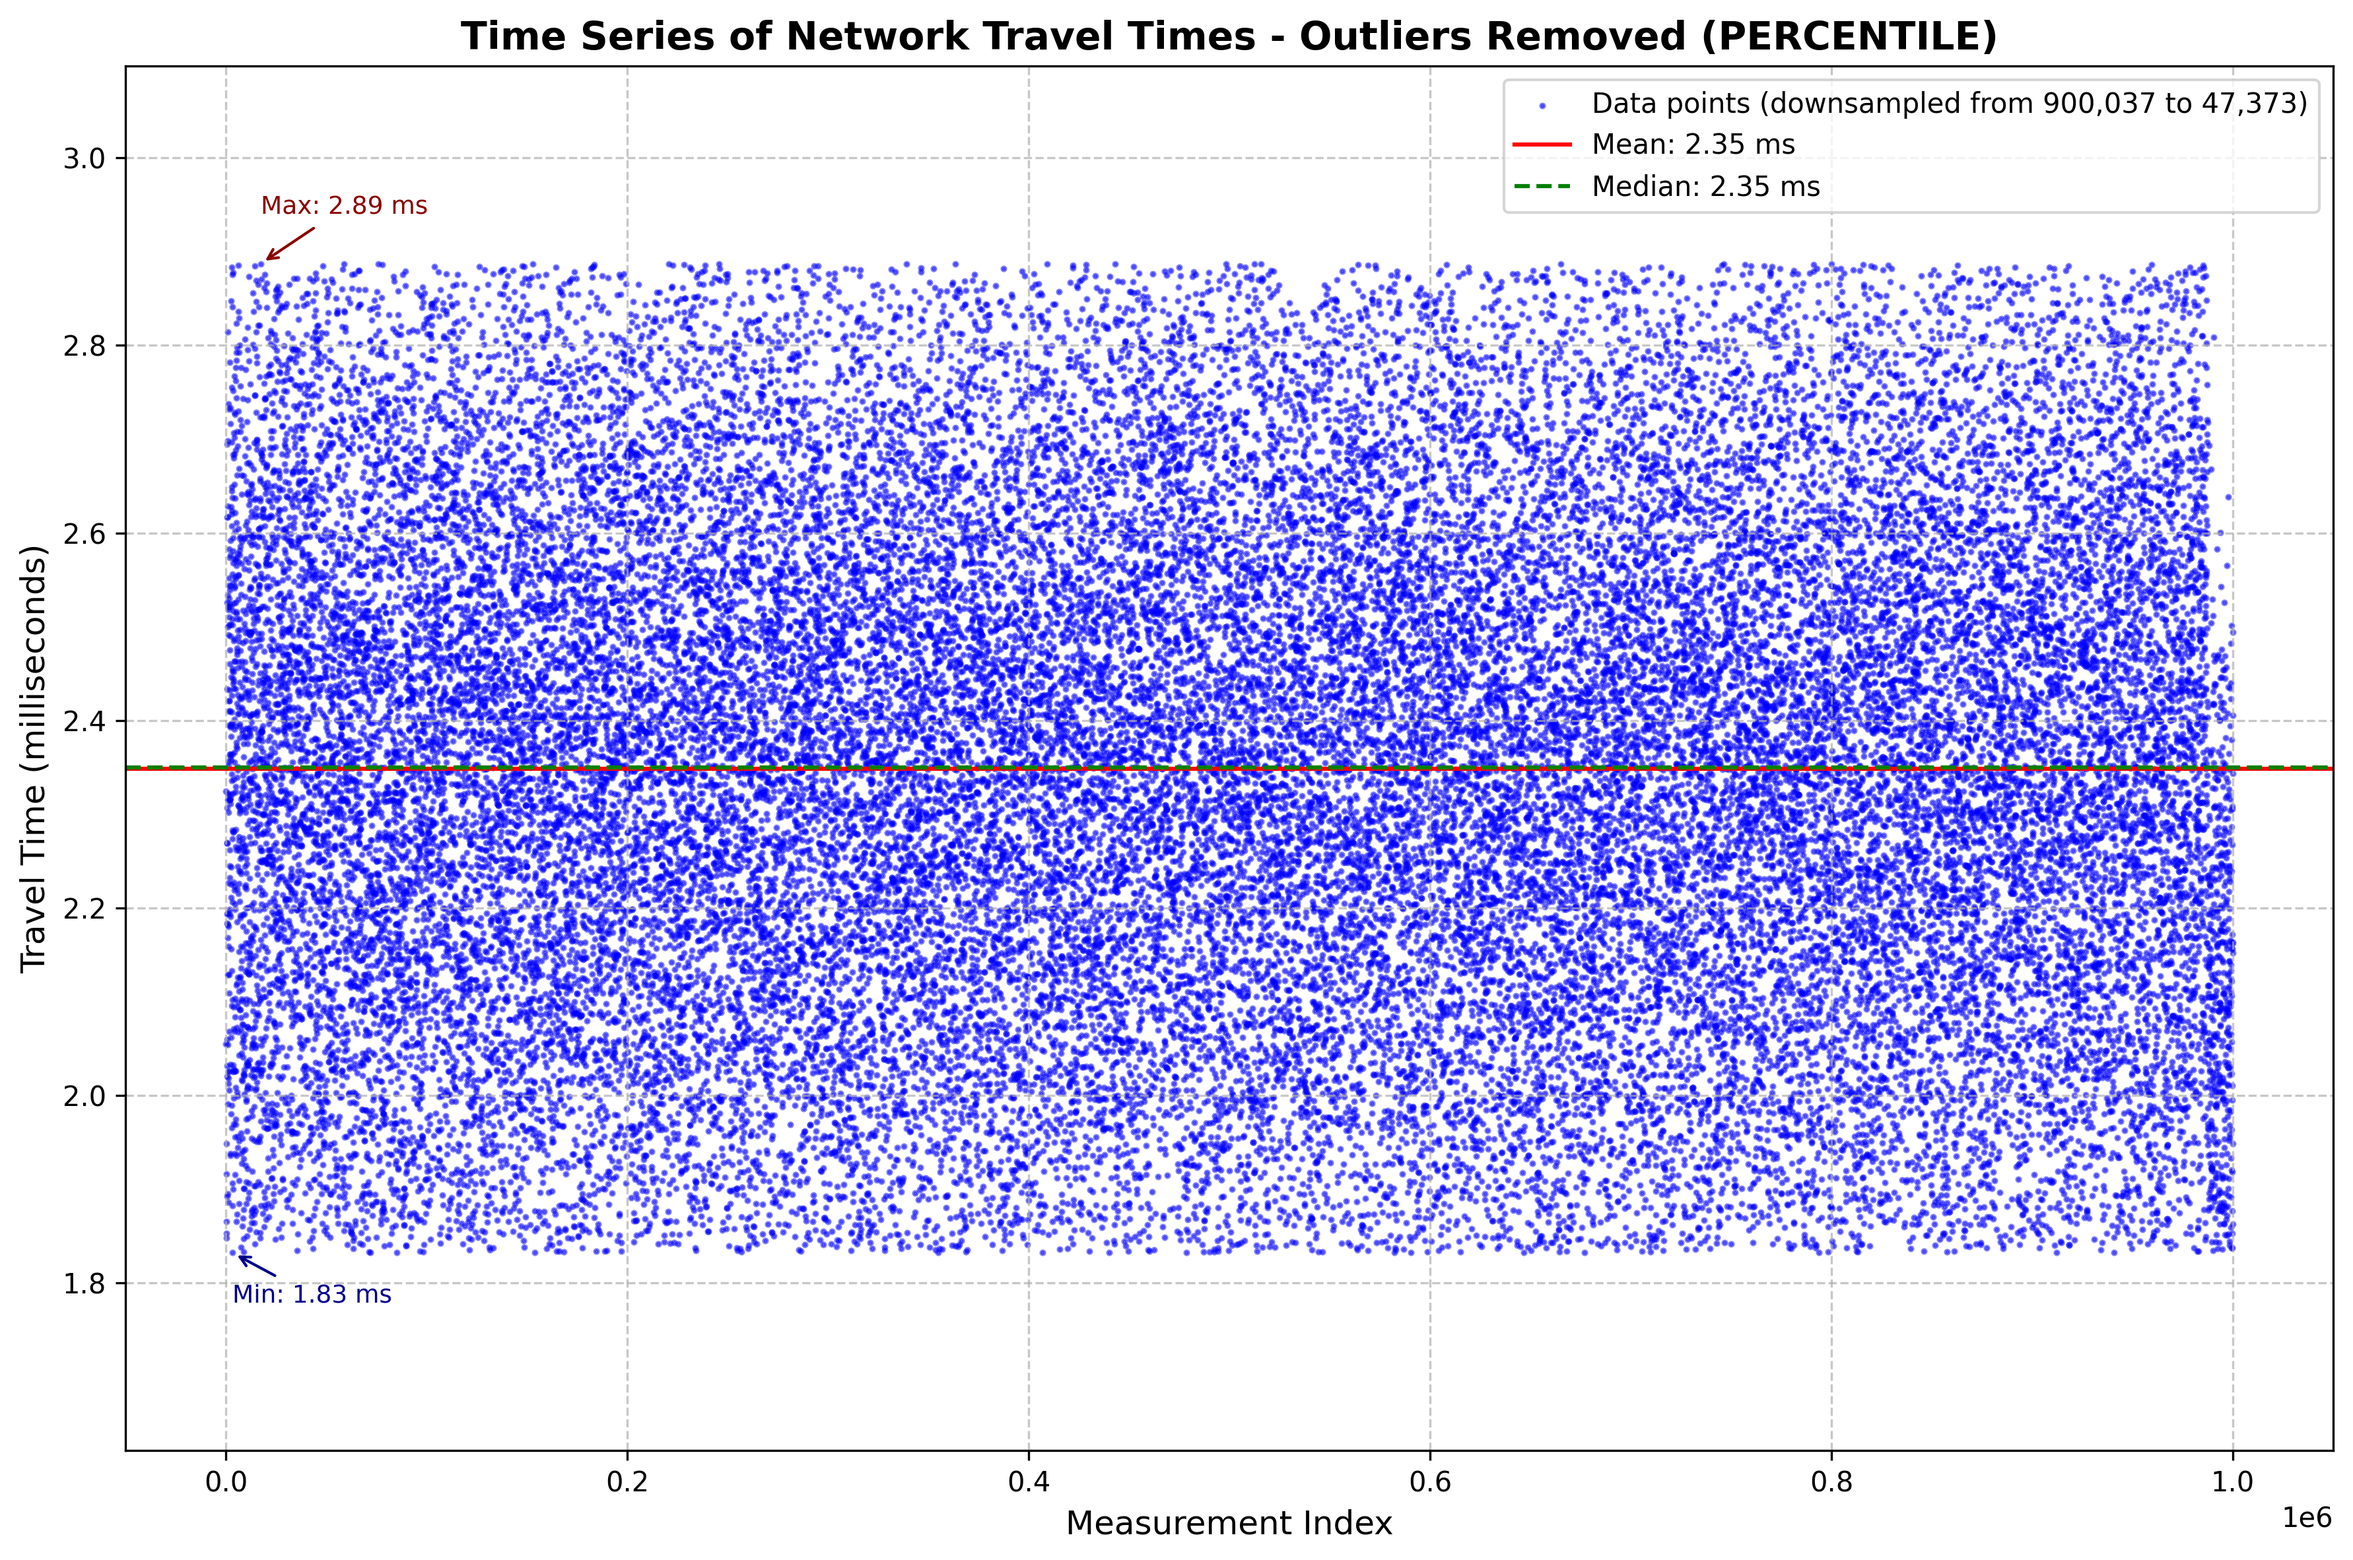
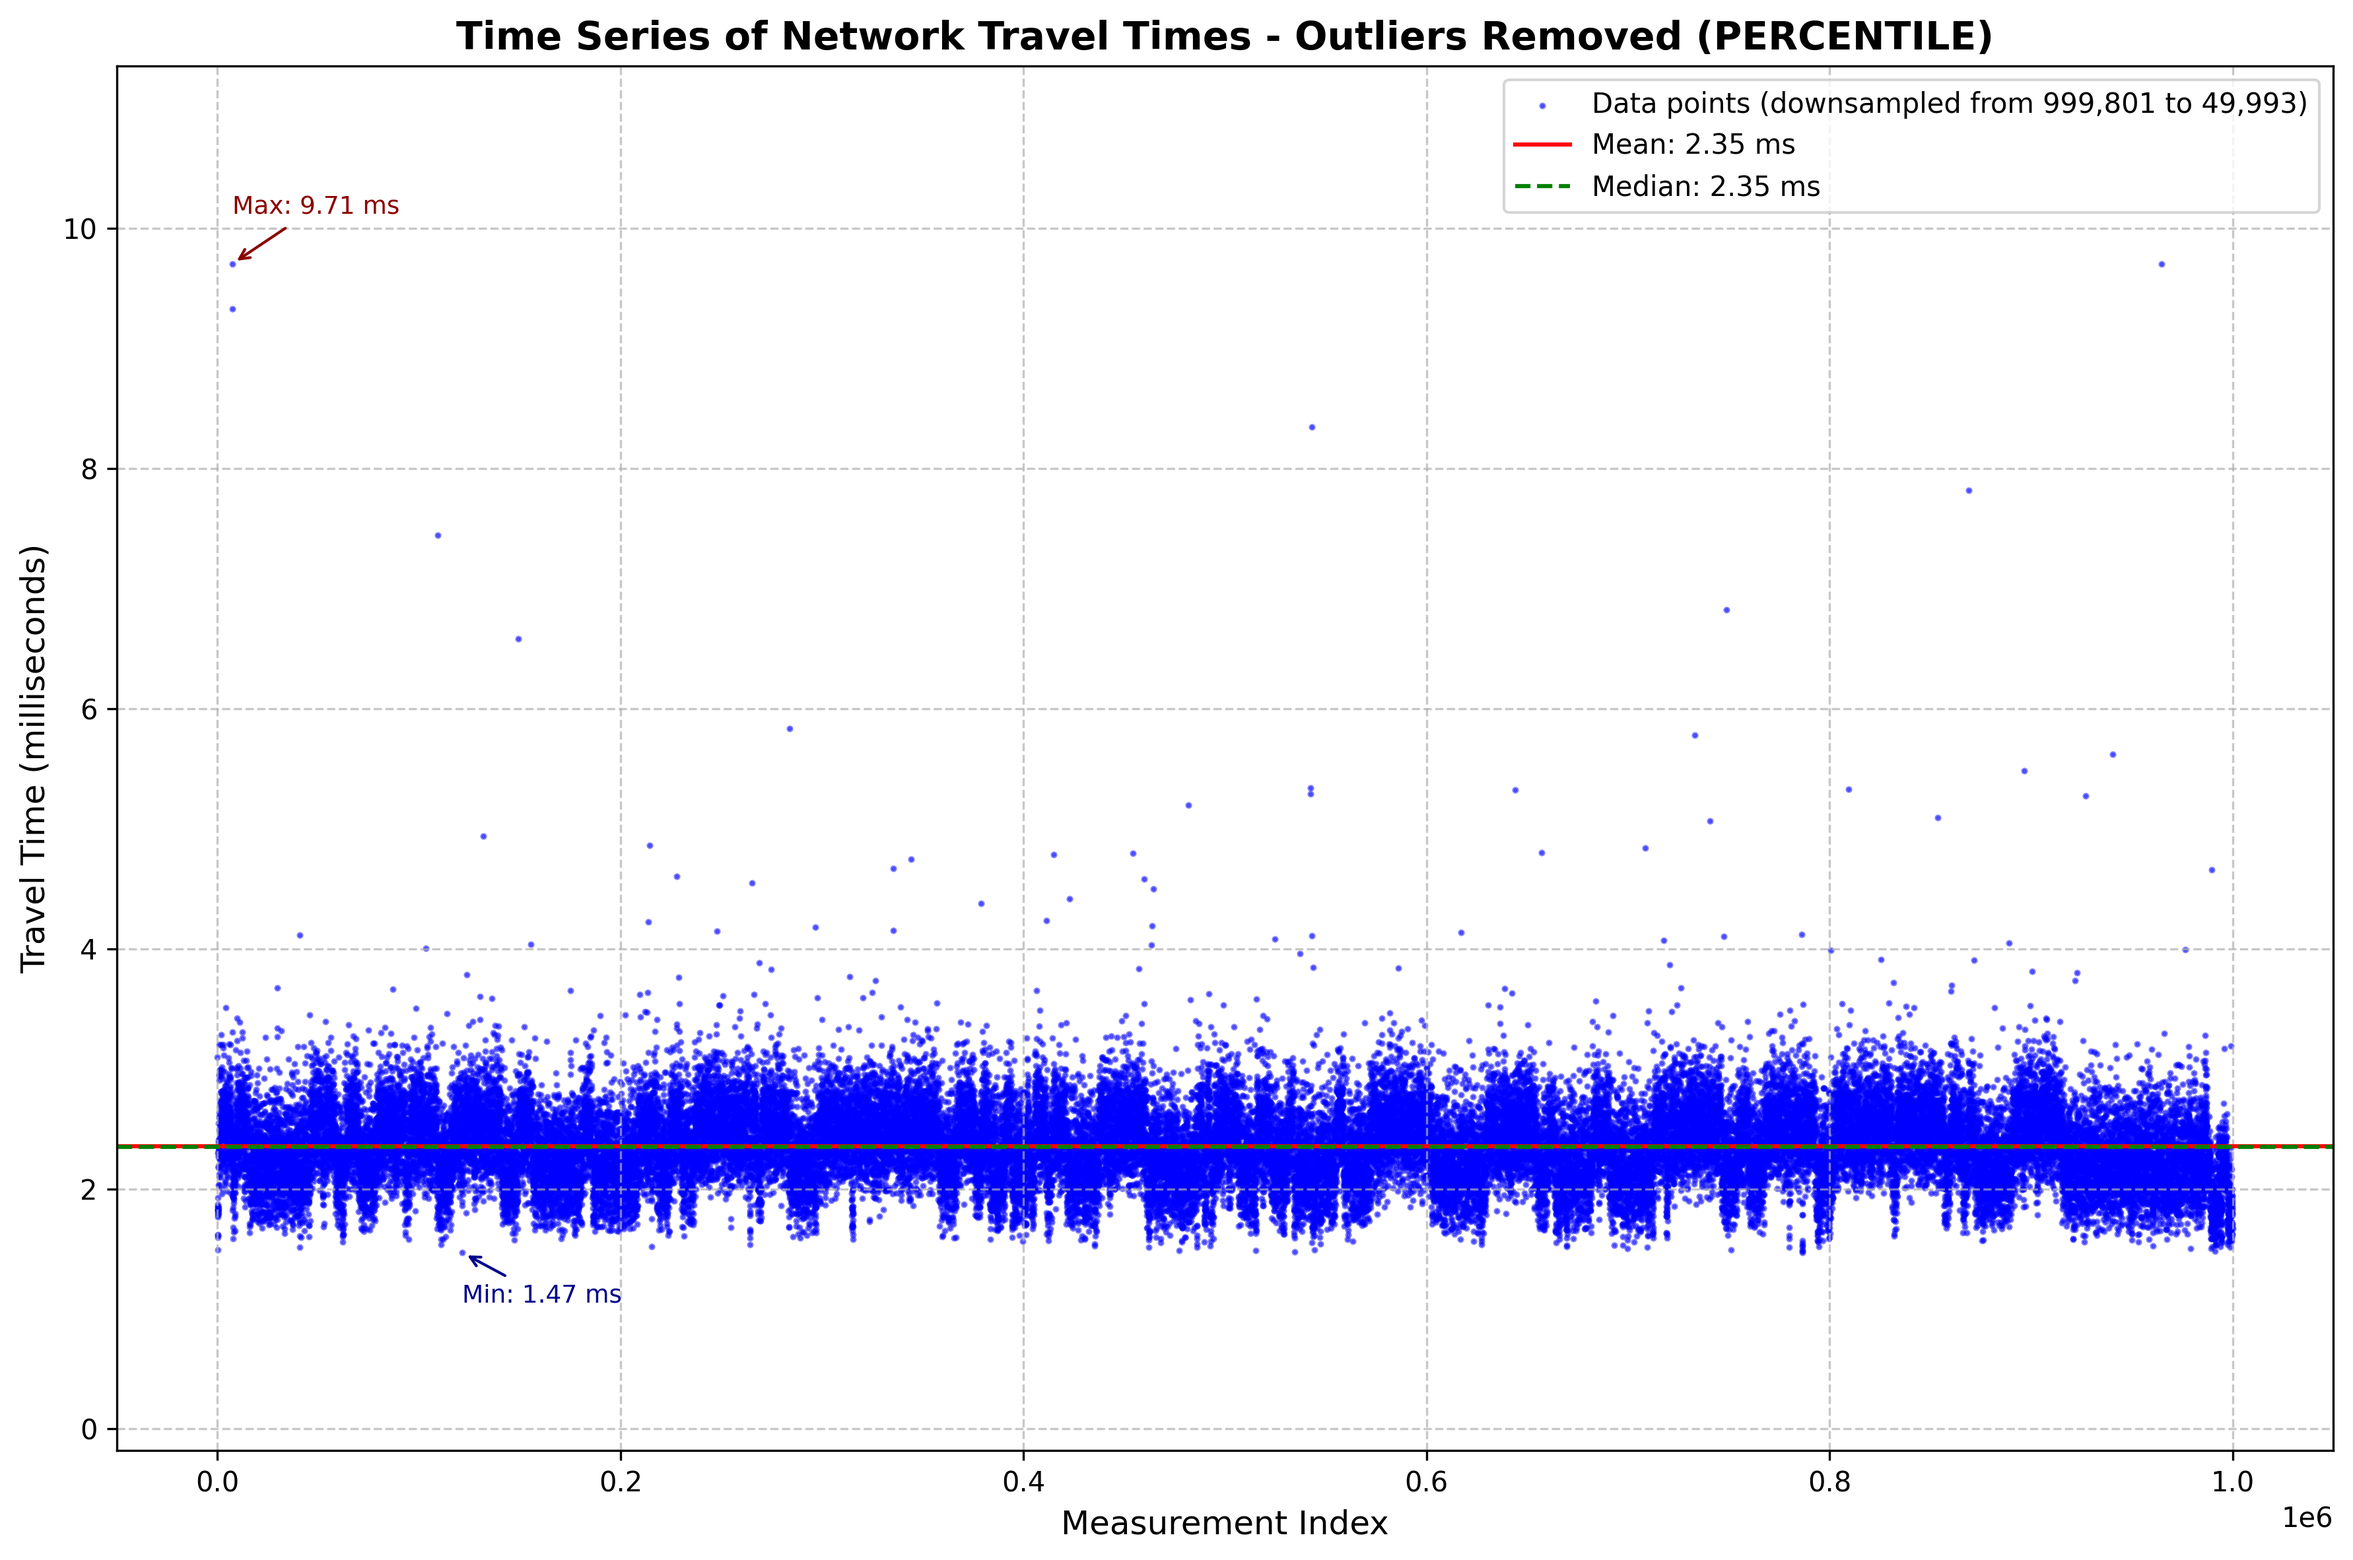
Added folders iqr and std

diff --git a/series.py b/series.py
@@ -163,8 +163,8 @@ print(f"- Std Dev: {orig_std:.2f} ms")
 # Remove outliers
 print("\nRemoving outliers...")
 # Choose outlier removal method: 'iqr', 'std', 'percentile', or None
-outlier_method = 'None'  # Standard IQR method
-outlier_threshold = 5  # Standard threshold for IQR method
+outlier_method = 'percentile'  # Standard IQR method
+outlier_threshold = 0.01  # Standard threshold for IQR method
 
 if outlier_method:
     filtered_data, outlier_mask = remove_outliers(travel_times_ms, method=outlier_method, threshold=outlier_threshold)
